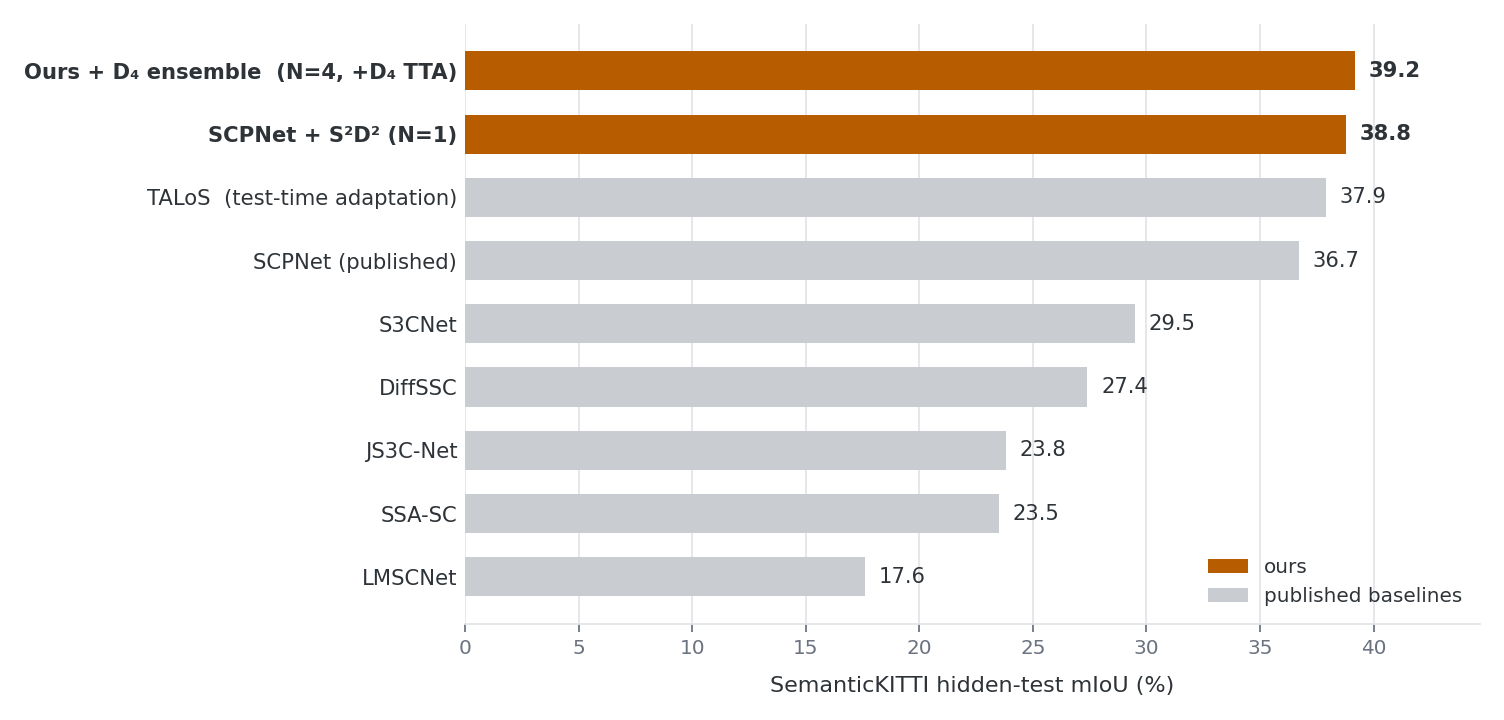
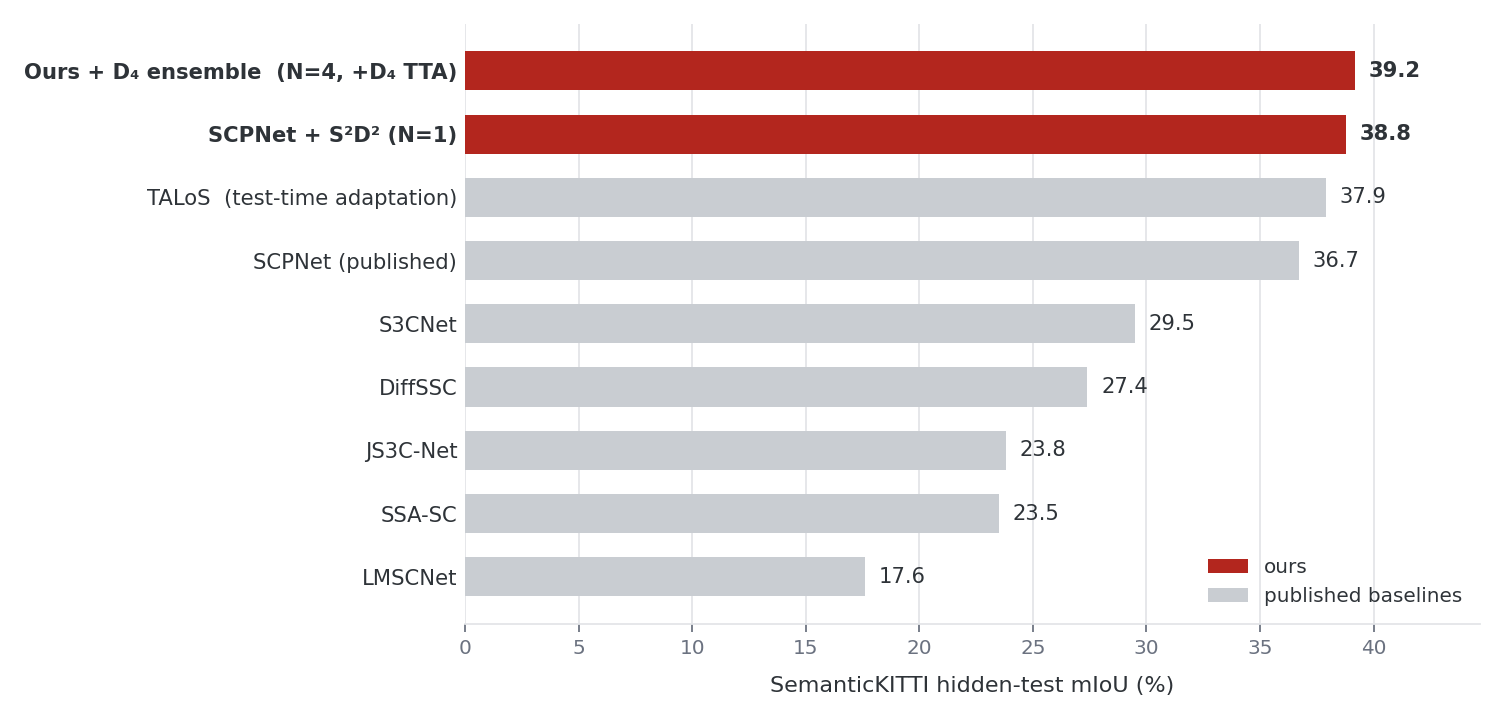
Fix a false caption, paint the bars red as asked, and close four a11y defects
A 20-agent verification sweep re-checked every request from this session against
the shipped artifact rather than against the source. 19 of 23 were clean. These
were not.

THE CAPTION WAS LYING ABOUT THE PICTURE. index.html said "the hatched bars fall
outside it" and the alt text said three rows "are drawn hatched and labelled as
outside the predicate", including a 47.5 bar that was deliberately deleted from
the chart. Measured from the shipped bytes: every bar interior is a single solid
colour, interior_solid = 1.0000. Nothing is hatched and nothing is annotated. The
generator's own docstring claimed the hatching too, and `excl` was computed,
unpacked into the drawing loop, and never read -- dead code that made the false
claim look implemented. So the words were written from the docstring rather than
from the figure.

Both were fixed toward the picture, since the picture is what was asked for: both
our bars share the accent, by request. The caption now does the marking the
drawing does not -- it says our other bar is longer at 39.2 and why it does not
count -- the alt describes the chart that exists, the docstring says plainly what
the chart does NOT do, and `excl` is out of the loop.

THE BARS WERE NOT RED. "both 39.2 and 38.8 should be painted red" was implemented
as #B85C00, which measures hue 30 degrees -- the textbook midpoint of orange. Now
#B3261E, measured hue 3.2 degrees, sampled from the regenerated pixels.
[…]

Changed region(s): [[0.2812, 0.1528, 0.9062, 0.2139], [0.2812, 0.0611, 0.9062, 0.1222], [0.7812, 0.7639, 0.8438, 0.7944]]

diff --git a/styles/site.css b/styles/site.css
@@ -31,7 +31,7 @@ a {
   text-decoration: underline var(--underline) 1px;
   text-underline-offset: 2px;
 }
-a:hover, a:focus-visible { color: var(--accent-hover); text-decoration-color: var(--accent-hover); }
+a:hover, a:focus-visible { color: var(--accent-hover); text-decoration-color: var(--underline); }
 :focus-visible { outline: 2px solid var(--accent); outline-offset: 2px; }
 
 .skip-link {
@@ -116,6 +116,11 @@ h2 {
   font-family: var(--ff-display);
   font-size: var(--fs-h2); font-weight: 400; line-height: 1.2;
 }
+/* A long single word -- "Acknowledgements" is the offender -- cannot be broken by
+   default, so at 200% text zoom on a 320px screen it pushed the whole PAGE into
+   horizontal scroll rather than overflowing its own box. <html lang="en"> is set, so
+   hyphens:auto breaks it at real syllables. */
+h1, h2, h3 { overflow-wrap: break-word; hyphens: auto; }
 h3 {
   margin: var(--s-6) 0 var(--s-2);
   font-family: var(--ff-display);
@@ -246,6 +251,13 @@ html:not(.js) #viewer3d-loading { display: none; }
 .seg button:last-child { border-right: 0; }
 .seg button[aria-pressed="true"],
 .seg button.is-active { background: var(--text); color: var(--ground); }
+@media (forced-colors: active) {
+  .seg button[aria-pressed="true"],
+  .seg button.is-active {
+    forced-color-adjust: none;
+    background: Highlight; color: HighlightText;
+  }
+}
 .viewer-legend {
   display: flex; flex-wrap: wrap; gap: var(--s-2) var(--s-4);
   font-size: var(--fs-micro); color: var(--muted); margin-top: var(--s-3);
@@ -265,7 +277,7 @@ footer p { margin: 0 0 var(--s-2); }
   #viewer3d-stage { height: 400px; }
 }
 @media (max-width: 560px) {
-  :root { --fs-h1: 1.75rem; }
+  :root { --fs-h1: 1.75rem; --fs-h2: 1.25rem; }
   .prose, .media { padding-inline: var(--s-4); }
   #viewer3d-stage { height: 320px; }
 }

diff --git a/index.html b/index.html
@@ -81,9 +81,9 @@
   <figure class="media scrollable">
   <picture>
     <source srcset="assets/figures/results_chart.webp" type="image/webp">
-    <img src="assets/figures/results_chart.png" alt="Horizontal bar chart of SemanticKITTI hidden-test mIoU. Our result at 38.8 is the highest eligible bar; TALoS at 37.9, our own eight-view ensemble at 39.2 and the four-sweep entry at 47.5 are drawn hatched and labelled as outside the predicate." />
+    <img src="assets/figures/results_chart.png" alt="Horizontal bar chart of SemanticKITTI hidden-test mIoU, one bar per method. The two red bars are ours: 38.8 at one step with no test-time augmentation, and a longer bar at 39.2 whose label reads N=4, +D4 TTA. The grey bars are published baselines, the longest being TALoS at 37.9, labelled as test-time adaptation." />
   </picture>
-  <figcaption data-paper-float="Table I"><strong>38.8% mIoU</strong> on the hidden test at one step with no test-time augmentation, +2.1&nbsp;pp over the previous best published score. Every number here is indexed on one predicate &mdash; <em>causal, single-sweep, single-sample</em> &mdash; and the hatched bars fall outside it.</figcaption>
+  <figcaption data-paper-float="Table I"><strong>38.8% mIoU</strong> on the hidden test at one step with no test-time augmentation, +2.1&nbsp;pp over the previous best published score. Every number here is indexed on one predicate &mdash; <em>causal, single-sweep, single-sample</em>. Our other red bar is longer, at 39.2, and falls outside that predicate: its label says why, <em>N</em>=4 with eight-view D<sub>4</sub> test-time augmentation.</figcaption>
 </figure>
 </section>
 

diff --git a/styles/tokens.css b/styles/tokens.css
@@ -66,11 +66,14 @@
 
   /* Links are body-coloured with a hairline underline, not a hue. */
   --accent:        #333333;
-  --accent-hover:  #888888;
+  /* 4.74:1. This was #888888 = 3.54:1, which failed AA on hover AND on focus -- the
+     skip link is the first tab stop, so a keyboard user met the failure immediately.
+     The fade now lives in the UNDERLINE, which is decoration and only owes 3:1. */
+  --accent-hover:  #737373;
   --underline:     #888888;
 
   /* The only chromatic values on the page, and only inside content. */
-  --chart-ours:    #B85C00;
+  --chart-ours:    #B3261E;   /* red, per request; was #B85C00 = hue 30, orange */
   --pos:           #1F7A4D;
   --neg:           #A33A3A;
 

diff --git a/tools/check_page.py b/tools/check_page.py
@@ -32,6 +32,8 @@ from pathlib import Path
 
 from playwright.sync_api import sync_playwright
 
+ENGINE = "chromium"
+
 # Keep browser scratch off the small overlay filesystem. Playwright creates a fresh
 # browser profile per launch under the system temp dir, and a --selftest run launches
 # Chromium ~14 times. Where /tmp shares a modest overlay with /, that accumulation can
@@ -283,6 +285,57 @@ def inspect_reduced_motion(browser, url, fault=None):
             ("viewer still draws under reduced motion", canvas, str(canvas))]
 
 
+RATIO_JS = """(el) => {
+  const lin = (c) => { c /= 255; return c <= 0.03928 ? c / 12.92
+                                                     : Math.pow((c + 0.055) / 1.055, 2.4); };
+  const lum = ([r, g, b]) => 0.2126 * lin(r) + 0.7152 * lin(g) + 0.0722 * lin(b);
+  const rgb = (s) => (s.match(/[\\d.]+/g) || []).slice(0, 3).map(Number);
+  const alpha = (s) => { const n = (s.match(/[\\d.]+/g) || []); return n.length > 3 ? +n[3] : 1; };
+  let bg = [255, 255, 255];
+  for (let n = el; n && n.nodeType === 1; n = n.parentElement) {
+    const b = getComputedStyle(n).backgroundColor;
+    if (b && alpha(b) > 0.05) { bg = rgb(b); break; }
+  }
+  const cs = getComputedStyle(el);
+  const px = parseFloat(cs.fontSize), wt = parseInt(cs.fontWeight, 10) || 400;
+  const pair = [lum(rgb(cs.color)), lum(bg)].sort((x, y) => y - x);
+  return { ratio: Math.round(((pair[0] + 0.05) / (pair[1] + 0.05)) * 100) / 100,
+           need: (px >= 24 || (px >= 18.66 && wt >= 700)) ? 3.0 : 4.5,
+           color: cs.color, text: (el.innerText || '').trim().slice(0, 26) };
+}"""
+
+
+def inspect_link_states(browser, url, fault=None):
+    """Contrast in the HOVER and FOCUS states, which the resting sweep cannot reach.
+
+    --accent-hover shipped at #888888 = 3.54:1, so every link failed AA the moment a
+    pointer touched it, and the skip link is the FIRST tab stop -- a keyboard user met
+    the failure before anything else on the page. The resting-state check passed
+    throughout, because at rest those links are #333333 at 12.63:1.
+    """
+    page = browser.new_page(viewport={"width": 1280, "height": 900})
+    if fault:
+        fault(page)
+    page.goto(url, wait_until="load")
+    page.wait_for_timeout(1200)
+    links = page.locator("a[href]")
+    total, bad = links.count(), []
+    for i in range(total):
+        el = links.nth(i)
+        for state in ("hover", "focus"):
+            try:
+                el.hover(timeout=1500) if state == "hover" else el.focus(timeout=1500)
+            except Exception:
+                continue          # off-screen or covered; the other state still measures
+            page.wait_for_timeout(60)
+            r = el.evaluate(RATIO_JS)
+            if r["ratio"] + 0.005 < r["need"]:
+                bad.append(f'{state} {r["text"]!r} {r["color"]} {r["ratio"]}:1 < {r["need"]}')
+    page.close()
+    return [("links clear WCAG AA when hovered and focused", not bad,
+             "; ".join(bad[:3]) or f"{total} links x 2 states")]
+
+
 def inspect_fallback_link(browser, url, fault=None):
     """Block the point clouds so the viewer's real failure path runs, then FOLLOW the
     link it offers and measure whether the figure it promises is actually on screen.
@@ -327,13 +380,14 @@ def inspect_fallback_link(browser, url, fault=None):
 
 CONTEXTS = (("print", inspect_print), ("no-JS", inspect_nojs), ("slow load", inspect_slowload),
             ("reduced motion", inspect_reduced_motion),
-            ("scene-failure fallback", inspect_fallback_link))
+            ("scene-failure fallback", inspect_fallback_link),
+            ("link hover/focus", inspect_link_states))
 
 
 def gate(url: str) -> int:
     failures = 0
     with sync_playwright() as pw:
-        browser = pw.chromium.launch()
+        browser = getattr(pw, ENGINE).launch()
         for w, h, tag in VIEWPORTS:
             print(f"--- {tag} {w}x{h}")
             for name, ok, detail in inspect(browser, url, w, h):
@@ -449,6 +503,12 @@ CONTEXT_FAULTS = [
     ("viewer honours prefers-reduced-motion", inspect_reduced_motion, _ignore_reduced_motion),
     # The defect a reader reported: the note promised the qualitative comparison and
     # sent them to the abstract. Restoring that one string must fail the check.
+    # The exact value that shipped: #888888 is 3.54:1 and fails AA at link size.
+    ("links clear WCAG AA when hovered and focused", inspect_link_states,
+     lambda p: p.route("**/styles/tokens.css", lambda r: r.fulfill(
+         status=200, content_type="text/css",
+         body=(CSS_PATH.parent / "tokens.css").read_text(encoding="utf-8")
+              .replace("--accent-hover:  #737373;", "--accent-hover:  #888888;", 1)))),
     ("that link lands on the qualitative figure", inspect_fallback_link,
      lambda p: _serve_js(p, "scripts/viewer3d.js",
                          lambda c: c.replace("link.href = '#results';\n  link.textContent = "
@@ -465,7 +525,7 @@ def selftest(url: str) -> int:
     print("Each fault must trip its named check.\n")
     silent = 0
     with sync_playwright() as pw:
-        browser = pw.chromium.launch()
+        browser = getattr(pw, ENGINE).launch()
         for target, fault in FAULTS:
             results = dict((n, ok) for n, ok, _ in inspect(browser, url, 1280, 900, fault))
             tripped = results.get(target) is False
@@ -491,5 +551,10 @@ if __name__ == "__main__":
     ap = argparse.ArgumentParser()
     ap.add_argument("--url", default=DEFAULT_URL)
     ap.add_argument("--selftest", action="store_true")
+    ap.add_argument("--engine", default="chromium",
+                    choices=("chromium", "firefox", "webkit"),
+                    help="both gates hardcoded chromium, so nothing outside V8 "
+                         "had ever been exercised")
     a = ap.parse_args()
+    globals()['ENGINE'] = a.engine
     sys.exit(selftest(a.url) if a.selftest else gate(a.url))

diff --git a/tools/check_content.py b/tools/check_content.py
@@ -305,16 +305,20 @@ def gate(paper_dir: Path) -> int:
 
 def selftest(paper_dir: Path) -> int:
     """Each fault must make some check fail. A check never seen failing proves nothing."""
+    # (label, a substring of the check this fault MUST trip, kwargs). Asserting only
+    # that *something* failed is the vacuity mode: a drifted fault plus one unrelated
+    # baseline failure still prints SELFTEST OK. The other two tools already name their
+    # target; this one did not.
     cases = [
-        ("renumbered float (Fig. 6 -> Fig. 99)",
+        ("renumbered float (Fig. 6 -> Fig. 99)", "Fig. 99",
          dict(caps=[("Fig. 99", c[1]) for c in captions() if c[0] == "Fig. 6"])),
-        ("float pointing at another topic (Fig. 6 -> Fig. 2)",
+        ("float pointing at another topic (Fig. 6 -> Fig. 2)", "Fig. 2",
          dict(caps=[("Fig. 2", c[1]) for c in captions() if c[0] == "Fig. 6"])),
         # 99.97 is VERIFIED ABSENT from both PDFs. The first draft of this fault used
         # 41.7, which is a real SGSC row in the paper -- so the gate rightly passed and
         # the selftest read that as the gate being broken. A negative control has to be
         # verified negative.
-        ("fabricated number in the prose",
+        ("fabricated number in the prose", "numeric claims",
          dict(extra_prose="a headline of 99.97 percent")),
         # The exact defect this arm was written for: the title the copy button handed
         # out was truncated to its first four words.
@@ -324,19 +328,28 @@ def selftest(paper_dir: Path) -> int:
         # The exact defect a reader reported: the scene-failure note promised the
         # qualitative comparison and linked to #abstract. All five anchors resolved, so
         # only an allowlist catches it.
-        ("fallback link pointing at the abstract",
+        ("fallback link pointing at the abstract", "allowlisted",
          dict(anchors=internal_anchors() + [("scripts/viewer3d.js", "#abstract")])),
-        ("BibTeX title longer than the paper's",
+        ("BibTeX title longer than the paper's", "title",
          dict(title_override="Generative Semantic Scene Completion through Modeling "
                              "the Underlying Geometry and Semantics in Point Clouds")),
     ]
+    # A fault is only evidence against a clean baseline. If the gate is already failing,
+    # every arm "trips" for the wrong reason.
+    baseline = [n for n, ok, _ in run(paper_dir) if not ok]
+    if baseline:
+        print(f"  BASELINE NOT CLEAN: {len(baseline)} check(s) already failing -- "
+              f"{'; '.join(baseline[:3])}")
+        return 1
     silent = 0
-    for label, kwargs in cases:
+    for label, expect, kwargs in cases:
         results = run(paper_dir, **kwargs)
-        tripped = any(not ok for _, ok, _ in results)
+        hits = [n for n, ok, _ in results if not ok]
+        tripped = any(expect in n for n in hits)
         if not tripped:
             silent += 1
-        print(f"  {'TRIPPED ' if tripped else 'SILENT  '} {label}")
+        note = "" if tripped else f"   (expected a check naming {expect!r}; got {hits or 'nothing'})"
+        print(f"  {'TRIPPED ' if tripped else 'SILENT  '} {label}{note}")
     print(f"\n{'SELFTEST FAILED' if silent else 'SELFTEST OK'}: "
           f"{len(cases) - silent}/{len(cases)} faults detected")
     return 1 if silent else 0

diff --git a/tools/make_results_chart.py b/tools/make_results_chart.py
@@ -5,10 +5,16 @@ The page used to carry two HTML tables. Measured against 15 accepted project pag
 ZERO use an HTML number table; the five that show numbers at all use a bar chart or an
 image of the paper's table. So the medium changes and the evidence stays.
 
-Generating from data/results.json rather than hand-drawing keeps the predicate
-enforceable: rows flagged `excluded` are drawn greyed and hatched and are labelled as
-outside the predicate, so the chart cannot present the D4-TTA row as the headline the
-way an earlier version of this page did.
+Generating from data/results.json rather than hand-drawing keeps the numbers honest, and
+tools/check_content.py gates the manifest this writes against that JSON.
+
+WHAT THIS CHART DOES **NOT** DO, because an earlier docstring here claimed it did and the
+page's caption was then written from the docstring rather than from the picture: excluded
+rows are NOT hatched and NOT greyed. Both of our bars carry the accent, by request, and
+the D4-TTA row is the longest bar on the chart. Nothing in the drawing marks it as outside
+the predicate -- that job belongs to its own axis label, which names the configuration
+(N=4, +D4 TTA), and to the figure caption, which says the taller bar does not count and
+why. If you ever change that division of labour, change the caption in the same commit.
 
 Usage:  python tools/make_results_chart.py
 """
@@ -24,7 +30,9 @@ from matplotlib.patches import Patch
 
 SITE = Path(__file__).resolve().parent.parent
 # The page's own tokens, so the chart belongs to the page rather than sitting on it.
-ACCENT, TEXT, MUTED, RULE, GROUND = "#B85C00", "#2E3338", "#6B7280", "#E3E5E8", "#FFFFFF"
+# ACCENT is red because that is what was asked for. The previous #B85C00 measured hue
+# 30 degrees -- the textbook midpoint of orange -- so "painted red" was not satisfied.
+ACCENT, TEXT, MUTED, RULE, GROUND = "#B3261E", "#2E3338", "#6B7280", "#E3E5E8", "#FFFFFF"
 
 
 def main() -> None:
@@ -49,9 +57,10 @@ def main() -> None:
     fig.patch.set_facecolor(GROUND)
     ax.set_facecolor(GROUND)
 
-    for i, (v, e, o) in enumerate(zip(vals, excl, ours)):
+    for i, (v, o) in enumerate(zip(vals, ours)):
         # Both of ours carry the accent, including the ensemble row: it is ours either
-        # way, and the label says which configuration produced it.
+        # way, and the label says which configuration produced it. `excl` is deliberately
+        # NOT consulted here -- see the docstring.
         ax.barh(i, v, color=ACCENT if o else "#C9CDD2", edgecolor="none", height=0.62)
         ax.text(v + 0.6, i, f"{v:.1f}", va="center", ha="left",
                 fontsize=9.5, color=TEXT, fontweight="600" if o else "normal")

diff --git a/tools/build_standalone.py b/tools/build_standalone.py
@@ -160,6 +160,23 @@ def build(artifact: bool = False) -> str:
         sys.exit("import map not found")
     html = html.replace(old_map.group(0), "", 1)
 
+    # --- the footer's third-party disclosure has to match this build ------
+    # index.html tells the reader the page fetches two third-party assets, the webfont
+    # and three.js from unpkg. That is true of the SERVED page and false of every
+    # standalone build, because the import map is deleted a few lines above and three.js
+    # is inlined -- measured: the only external requests a built page makes are the two
+    # Google Fonts URLs. A page that documents its own network behaviour has to be right
+    # about it, so the sentence is rewritten rather than left to rot.
+    served_claim = ("It fetches two third-party assets &mdash; the Hanken Grotesk webfont "
+                    "from Google Fonts, and the three.js library from unpkg for the 3D viewer.")
+    if served_claim not in html:
+        sys.exit("footer third-party disclosure not found -- it was reworded without "
+                 "updating tools/build_standalone.py, and the built page would now lie")
+    html = html.replace(served_claim,
+                        "It fetches one third-party asset &mdash; the Hanken Grotesk webfont "
+                        "from Google Fonts. The 3D viewer, its point clouds and every figure "
+                        "are carried inside this file.", 1)
+
     # The page no longer fetches JSON at runtime: the results are a generated figure
     # (tools/make_results_chart.py), so there is nothing to inline here. data/*.json
     # remains the source of truth for that chart and is gated in check_content.py.

diff --git a/tools/check_artifact.py b/tools/check_artifact.py
@@ -34,6 +34,8 @@ from pathlib import Path
 
 from playwright.sync_api import sync_playwright
 
+ENGINE = "chromium"
+
 SITE = Path(__file__).resolve().parent.parent
 sys.path.insert(0, str(SITE / "tools"))
 SERVED_URL = "http://localhost:8099/"
@@ -153,7 +155,7 @@ def gate() -> int:
     doc = build_artifact()
     print(f"built artifact: {len(doc.encode('utf-8')) / 1048576:.2f} MB")
     with sync_playwright() as pw:
-        b = pw.chromium.launch()
+        b = getattr(pw, ENGINE).launch()
         ref = served(b)
         d, console = render(b, doc)
         b.close()
@@ -198,7 +200,7 @@ def selftest() -> int:
     print("Each fault must trip its named check.\n")
     missed = []
     with sync_playwright() as pw:
-        b = pw.chromium.launch()
+        b = getattr(pw, ENGINE).launch()
         ref = served(b)
         for target, fault in FAULTS:
             mutated = fault(doc)
@@ -224,5 +226,10 @@ def selftest() -> int:
 if __name__ == "__main__":
     ap = argparse.ArgumentParser()
     ap.add_argument("--selftest", action="store_true")
+    ap.add_argument("--engine", default="chromium",
+                    choices=("chromium", "firefox", "webkit"),
+                    help="both gates hardcoded chromium, so nothing outside V8 "
+                         "had ever been exercised")
     a = ap.parse_args()
+    globals()['ENGINE'] = a.engine
     sys.exit(selftest() if a.selftest else gate())
